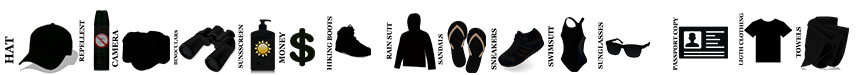
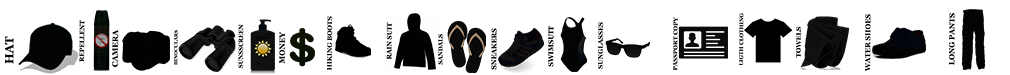
wet shoes y lon pants

diff --git a/templates/greenlife/css/main.css b/templates/greenlife/css/main.css
@@ -186,13 +186,13 @@ p{margin:0 0 20px}
 #main .item-page .info-right .info .money,#main .blog .info-right .info .money,#main .category-list .info-right .info .money{background-position:-276px -24px;height:61px;width:46px}
 #main .item-page .info-right .info .hiking-boots,#main .blog .info-right .info .hiking-boots,#main .category-list .info-right .info .hiking-boots{background-position:-325px -15px;height:63px;width:56px}
 #main .item-page .info-right .info .rain-gear,#main .blog .info-right .info .rain-gear,#main .category-list .info-right .info .rain-gear{background-position:-389px -12px;height:63px;width:48px}
-#main .item-page .info-right .info .water-shoes,#main .blog .info-right .info .water-shoes,#main .category-list .info-right .info .water-shoes{background-position:-491px -109px;height:63px;width:50px}
+#main .item-page .info-right .info .water-shoes,#main .blog .info-right .info .water-shoes,#main .category-list .info-right .info .water-shoes{background-position:-864px -13px;height:63px;width:64px}
 #main .item-page .info-right .info .swinsuit,#main .blog .info-right .info .swinsuit,#main .category-list .info-right .info .swinsuit{background-position:-547px -18px;height:54px;width:40px}
 #main .item-page .info-right .info .water-camera,#main .blog .info-right .info .water-camera,#main .category-list .info-right .info .water-camera{background-position:-592px -118px;height:54px;width:71px}
 #main .item-page .info-right .info .walking-shoes,#main .blog .info-right .info .walking-shoes,#main .category-list .info-right .info .walking-shoes{background-position:-674px -113px;height:47px;width:61px}
 #main .item-page .info-right .info .clothes,#main .blog .info-right .info .clothes,#main .category-list .info-right .info .clothes{background-position:-738px -12px;height:54px;width:55px}
 #main .item-page .info-right .info .towels,#main .blog .info-right .info .towels,#main .category-list .info-right .info .towels{background-position:-793px -16px;height:56px;width:69px}
-#main .item-page .info-right .info .long-pants,#main .blog .info-right .info .long-pants,#main .category-list .info-right .info .long-pants{background-position:-867px -107px;height:54px;width:41px}
+#main .item-page .info-right .info .long-pants,#main .blog .info-right .info .long-pants,#main .category-list .info-right .info .long-pants{background-position:-948px -9px;height:64px;width:41px}
 #main .item-page .info-right .info .sneakers,#main .blog .info-right .info .sneakers,#main .category-list .info-right .info .sneakers{background-position:-490px -22px;height:54px;width:57px}
 #main .item-page .info-right .info .light-clothing,#main .blog .info-right .info .light-clothing,#main .category-list .info-right .info .light-clothing{background-position:-975px -109px;height:51px;width:49px}
 #main .item-page .info-right .info .passport,#main .blog .info-right .info .passport,#main .category-list .info-right .info .passport{background-position:-671px -16px;height:55px;width:59px}
